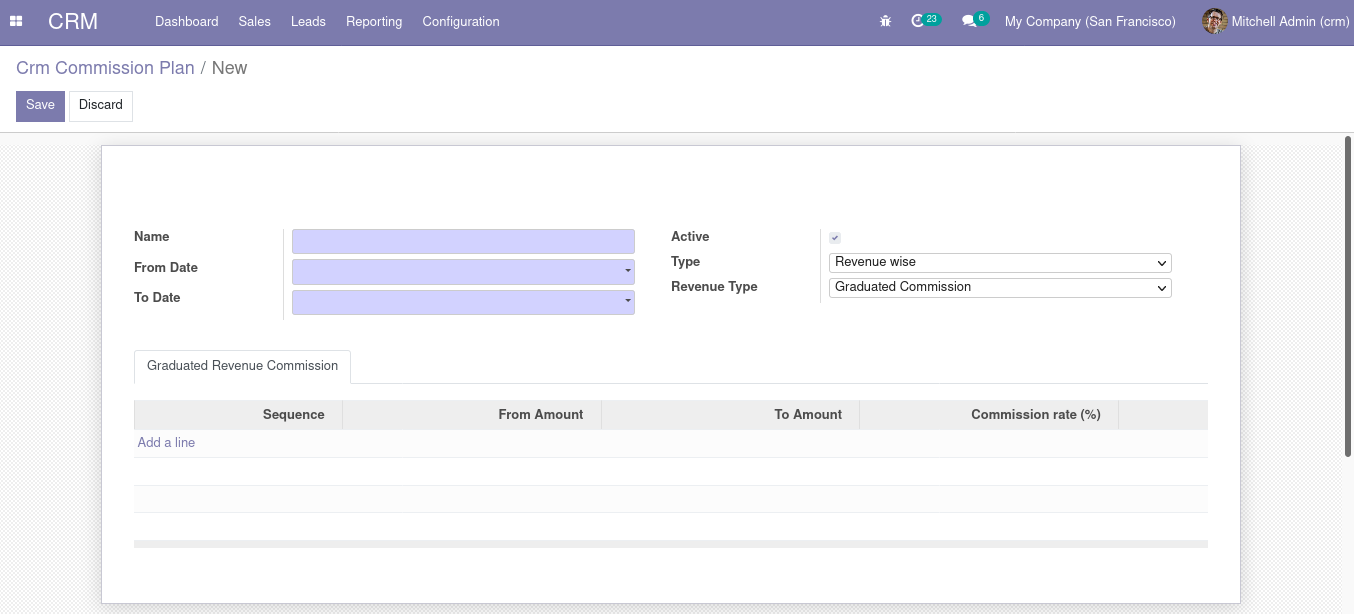
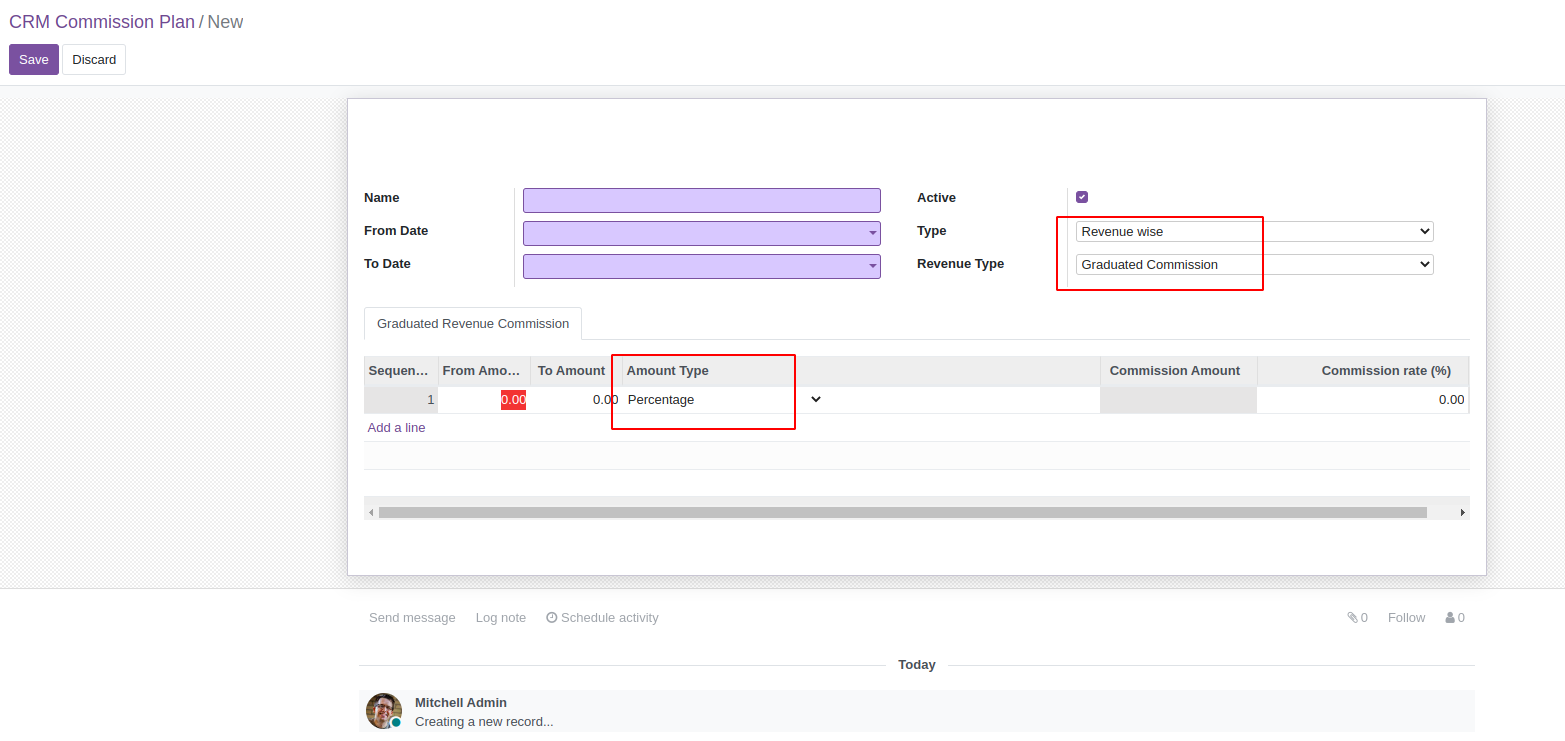
May 5 : [UPDT] Feature Updated  'commission_plan'

diff --git a/commission_plan/static/description/index.html b/commission_plan/static/description/index.html
@@ -231,7 +231,8 @@
                     selecting the Type the Product Wise options can be selected. Further, the Product Categories
                     with
                     respect to the respective Product Category based Commission Plan can be defined.</p>
-                <img src="assets/screenshots/Crm-Commission-Plan-2.png" class="img-responsive img-thumbnail border">
+                <p>You can also choose the commission amount type as fixed or percentage for each product.</p>
+                <img src="assets/screenshots/Crm-Commission-Plan-2-1.png" class="img-responsive img-thumbnail border">
             </div>
             <div class="mt-5">
                 <div class="d-flex mb-2" style="padding-bottom: 0.5rem !important;">
@@ -247,7 +248,11 @@
                     Commission. Further, the commission rate can be defined under the Straight Revenue
                     Commission
                     tab.</p>
-                <img src="assets/screenshots/Crm-Commission-Plan-3.png" class="img-responsive img-thumbnail border">
+                <p>The commission amount type can be chosen as fixed or percentage. You need to enter the percentage rate if you choose percentage type.</p>
+                <img src="assets/screenshots/Crm-Commission-Plan-3-1.png" class="img-responsive img-thumbnail border">
+
+                <p>You need to enter the fixed amount if you choose the fixed type.</p>
+                <img src="assets/screenshots/Crm-Commission-Plan-3-2.png" class="img-responsive img-thumbnail border">
             </div>
 
             <div class="mt-5">
@@ -257,7 +262,7 @@
                     <h3>Revenue-based Commission Plan: Graduated Revenue Commission Plan</h3>
                 </div>
                 <p>While Creating a Graduated Revenue Commission Plan the Commission type can be selected as
-                    Graduated Commission. Further, the commission rate can be defined under the Graduated
+                    Graduated Commission. Further, the commission rate/ commission amount can be defined under the Graduated
                     Revenue
                     Commission tab.</p>
                 <img src="assets/screenshots/Crm-Commission-Plan-4.png" class="img-responsive img-thumbnail border">

diff --git a/commission_plan/wizard/commission_report.py b/commission_plan/wizard/commission_report.py
@@ -107,20 +107,25 @@ class CommissionReportWizard(models.TransientModel):
                         lambda l: l.product_id == rule.product_id)
                     total_price = sum(
                         product_order_line.mapped('price_subtotal'))
-                    product_commission = (total_price * rule.percentage) / 100
+                    if rule.commission_amount_type == 'percentage':
+                        product_commission = (total_price * rule.percentage) / 100
+                    elif rule.commission_amount_type == 'fixed':
+                        product_commission = rule.fixed_amount
                     total_list.append(total_price)
                     user_commission_name.append(commission_id.name)
                     user_commission_salesperson.append(user.name)
                     commission_list.append(rule.amount) if (
-                            product_commission > rule.amount) \
+                            product_commission > rule.amount and rule.commission_amount_type == 'percentage') \
                         else commission_list.append(product_commission)
-
             if commission_id.type == 'revenue' and (
                     commission_id.revenue_type == 'graduated'):
                 for rule in commission_id.revenue_grd_comm_ids:
                     if rule.amount_from <= filtered_order_lines_commission_total < rule.amount_to:
-                        graduated_commission = (filtered_order_lines_commission_total
+                        if rule.graduated_amount_type == 'percentage':
+                            graduated_commission = (filtered_order_lines_commission_total
                                                 * rule.graduated_commission_rate) / 100
+                        elif rule.graduated_amount_type == 'fixed':
+                            graduated_commission = rule.graduated_fixed_amount
                         commission_list.append(graduated_commission)
                         user_commission_name.append(commission_id.name)
                         user_commission_salesperson.append(user.name)
@@ -128,8 +133,11 @@ class CommissionReportWizard(models.TransientModel):
 
             if commission_id.type == 'revenue' and (
                     commission_id.revenue_type == 'straight'):
-                straight_commission = (filtered_order_lines_commission_total
-                                       * commission_id.straight_commission_rate) / 100
+                if commission_id.straight_commission_type == 'percentage':
+                    straight_commission = (filtered_order_lines_commission_total
+                                           * commission_id.straight_commission_rate) / 100
+                elif commission_id.straight_commission_type == 'fixed':
+                    straight_commission = commission_id.straight_commission_fixed
                 commission_list.append(straight_commission)
                 user_commission_name.append(commission_id.name)
                 user_commission_salesperson.append(user.name)
@@ -177,14 +185,17 @@ class CommissionReportWizard(models.TransientModel):
                             lambda l: l.product_id == rules.product_id)
                         total_price = sum(
                             product_order_line.mapped('price_subtotal'))
-                        product_commission = (total_price * rules.percentage) / 100
+                        if rules.commission_amount_type == 'percentage':
+                            product_commission = (total_price * rules.percentage) / 100
+                        elif rules.commission_amount_type == 'fixed':
+                            product_commission = rules.fixed_amount
                         commission_total.append(total_price)
                         commission_name.append(commissions_id.name)
                         commission_salesperson.append(team_user.name)
                         commission_sales_team.append(
                             team_user.sale_team_id.name)
                         commission.append(rules.amount) if (
-                                product_commission > rules.amount) \
+                                product_commission > rules.amount and rules.commission_amount_type == 'percentage') \
                             else commission.append(product_commission)
 
                 if commissions_id.type == 'revenue' and (
@@ -192,8 +203,12 @@ class CommissionReportWizard(models.TransientModel):
                     for rules in commissions_id.revenue_grd_comm_ids:
                         if rules.amount_from <= filtered_order_lines_commission_total \
                                 < rules.amount_to:
-                            graduated_commission = (filtered_order_lines_commission_total
-                                                               * rules.graduated_commission_rate) / 100
+                            if rules.graduated_amount_type == 'percentage':
+                                graduated_commission = (filtered_order_lines_commission_total
+                                                        * rules.graduated_commission_rate) / 100
+                            elif rules.graduated_amount_type == 'fixed':
+                                graduated_commission = rules.graduated_fixed_amount
+
                             commission.append(graduated_commission)
                             commission_name.append(commissions_id.name)
                             commission_salesperson.append(team_user.name)
@@ -204,8 +219,11 @@ class CommissionReportWizard(models.TransientModel):
 
                 if commissions_id.type == 'revenue' and (
                         commissions_id.revenue_type == 'straight'):
-                    straight_commission = (filtered_order_lines_commission_total
-                                           * commissions_id.straight_commission_rate) / 100
+                    if commission_id.straight_commission_type == 'percentage':
+                        straight_commission = (filtered_order_lines_commission_total
+                                               * commission_id.straight_commission_rate) / 100
+                    elif commission_id.straight_commission_type == 'fixed':
+                        straight_commission = commission_id.straight_commission_fixed
                     commission.append(straight_commission)
                     commission_name.append(commissions_id.name)
                     commission_salesperson.append(team_user.name)

diff --git a/commission_plan/models/commission.py b/commission_plan/models/commission.py
@@ -41,7 +41,17 @@ class CommissionPlan(models.Model):
     user_id = fields.Many2one('res.users', string='Salesperson')
     product_comm_ids = fields.One2many('commission.product', 'commission_id',
                                        string="Product Wise")
+    currency_id = fields.Many2one("res.currency", string="Currency",
+                                  default=lambda self:
+                                  self.env.user.company_id.currency_id.id)
+    straight_commission_type = fields.Selection([('percentage', 'Percentage'),
+                                                ('fixed', 'Fixed Amount')],
+                                                string="Amount Type",
+                                                default='percentage')
+
+    straight_commission_fixed = fields.Monetary('Commission Amount', default=0.0)
     straight_commission_rate = fields.Float(string='Commission rate (%)')
+
     revenue_grd_comm_ids = fields.One2many(
         'commission.graduated',
         'commission_id',
@@ -78,6 +88,9 @@ class CommissionProduct(models.Model):
     category_id = fields.Many2one('product.category', string='Product Category')
     product_id = fields.Many2one('product.product', string='Product',
                                  domain="[('categ_id', '=', category_id)]")
+    commission_amount_type = fields.Selection([('percentage', 'Percentage'),
+                                               ('fixed', 'Fixed Amount')], string="Amount Type", default='percentage')
+    fixed_amount = fields.Monetary('Commission Amount', default=0.0)
     percentage = fields.Float(string='Rate in Percentage (%)')
     amount = fields.Monetary('Maximum Commission Amount', default=0.0)
     currency_id = fields.Many2one("res.currency", string="Currency",
@@ -90,6 +103,12 @@ class CommissionRevenueGraduated(models.Model):
     _name = 'commission.graduated'
     _description = 'Commission Revenue Graduated Wise'
 
+    currency_id = fields.Many2one("res.currency", string="Currency",
+                                  default=lambda self:
+                                  self.env.user.company_id.currency_id.id)
+    graduated_amount_type = fields.Selection([('percentage', 'Percentage'), ('fixed', 'Fixed Amount')],
+                                             string="Amount Type", default='percentage')
+    graduated_fixed_amount = fields.Monetary('Commission Amount', default=0.0)
     graduated_commission_rate = fields.Float(string='Commission rate (%)')
     amount_from = fields.Float(string="From Amount")
     amount_to = fields.Float(string="To Amount")

diff --git a/commission_plan/__manifest__.py b/commission_plan/__manifest__.py
@@ -24,7 +24,7 @@
     'description': """CRM Commission Plan for odoo15, CRM, crm commission, commission plan, crm features""",
     'summary': """CRM Commission Plan for odoo15""",
     "category": 'Sales',
-    "version": '15.0.1.0.0',
+    "version": '15.0.1.0.1',
     'author': 'Cybrosys Techno Solutions',
     'company': 'Cybrosys Techno Solutions',
     'maintainer': 'Cybrosys Techno Solutions',

diff --git a/commission_plan/doc/RELEASE_NOTES.md b/commission_plan/doc/RELEASE_NOTES.md
@@ -4,3 +4,8 @@
 #### Version 15.0.1.0.0
 #### ADD
 - Initial commit for Commission Plan Module
+
+#### 26.04.2023
+#### Version 15.0.1.0.1
+#### UPDT
+- Updated the commission amount type, added the option to use fixed amount commission.
